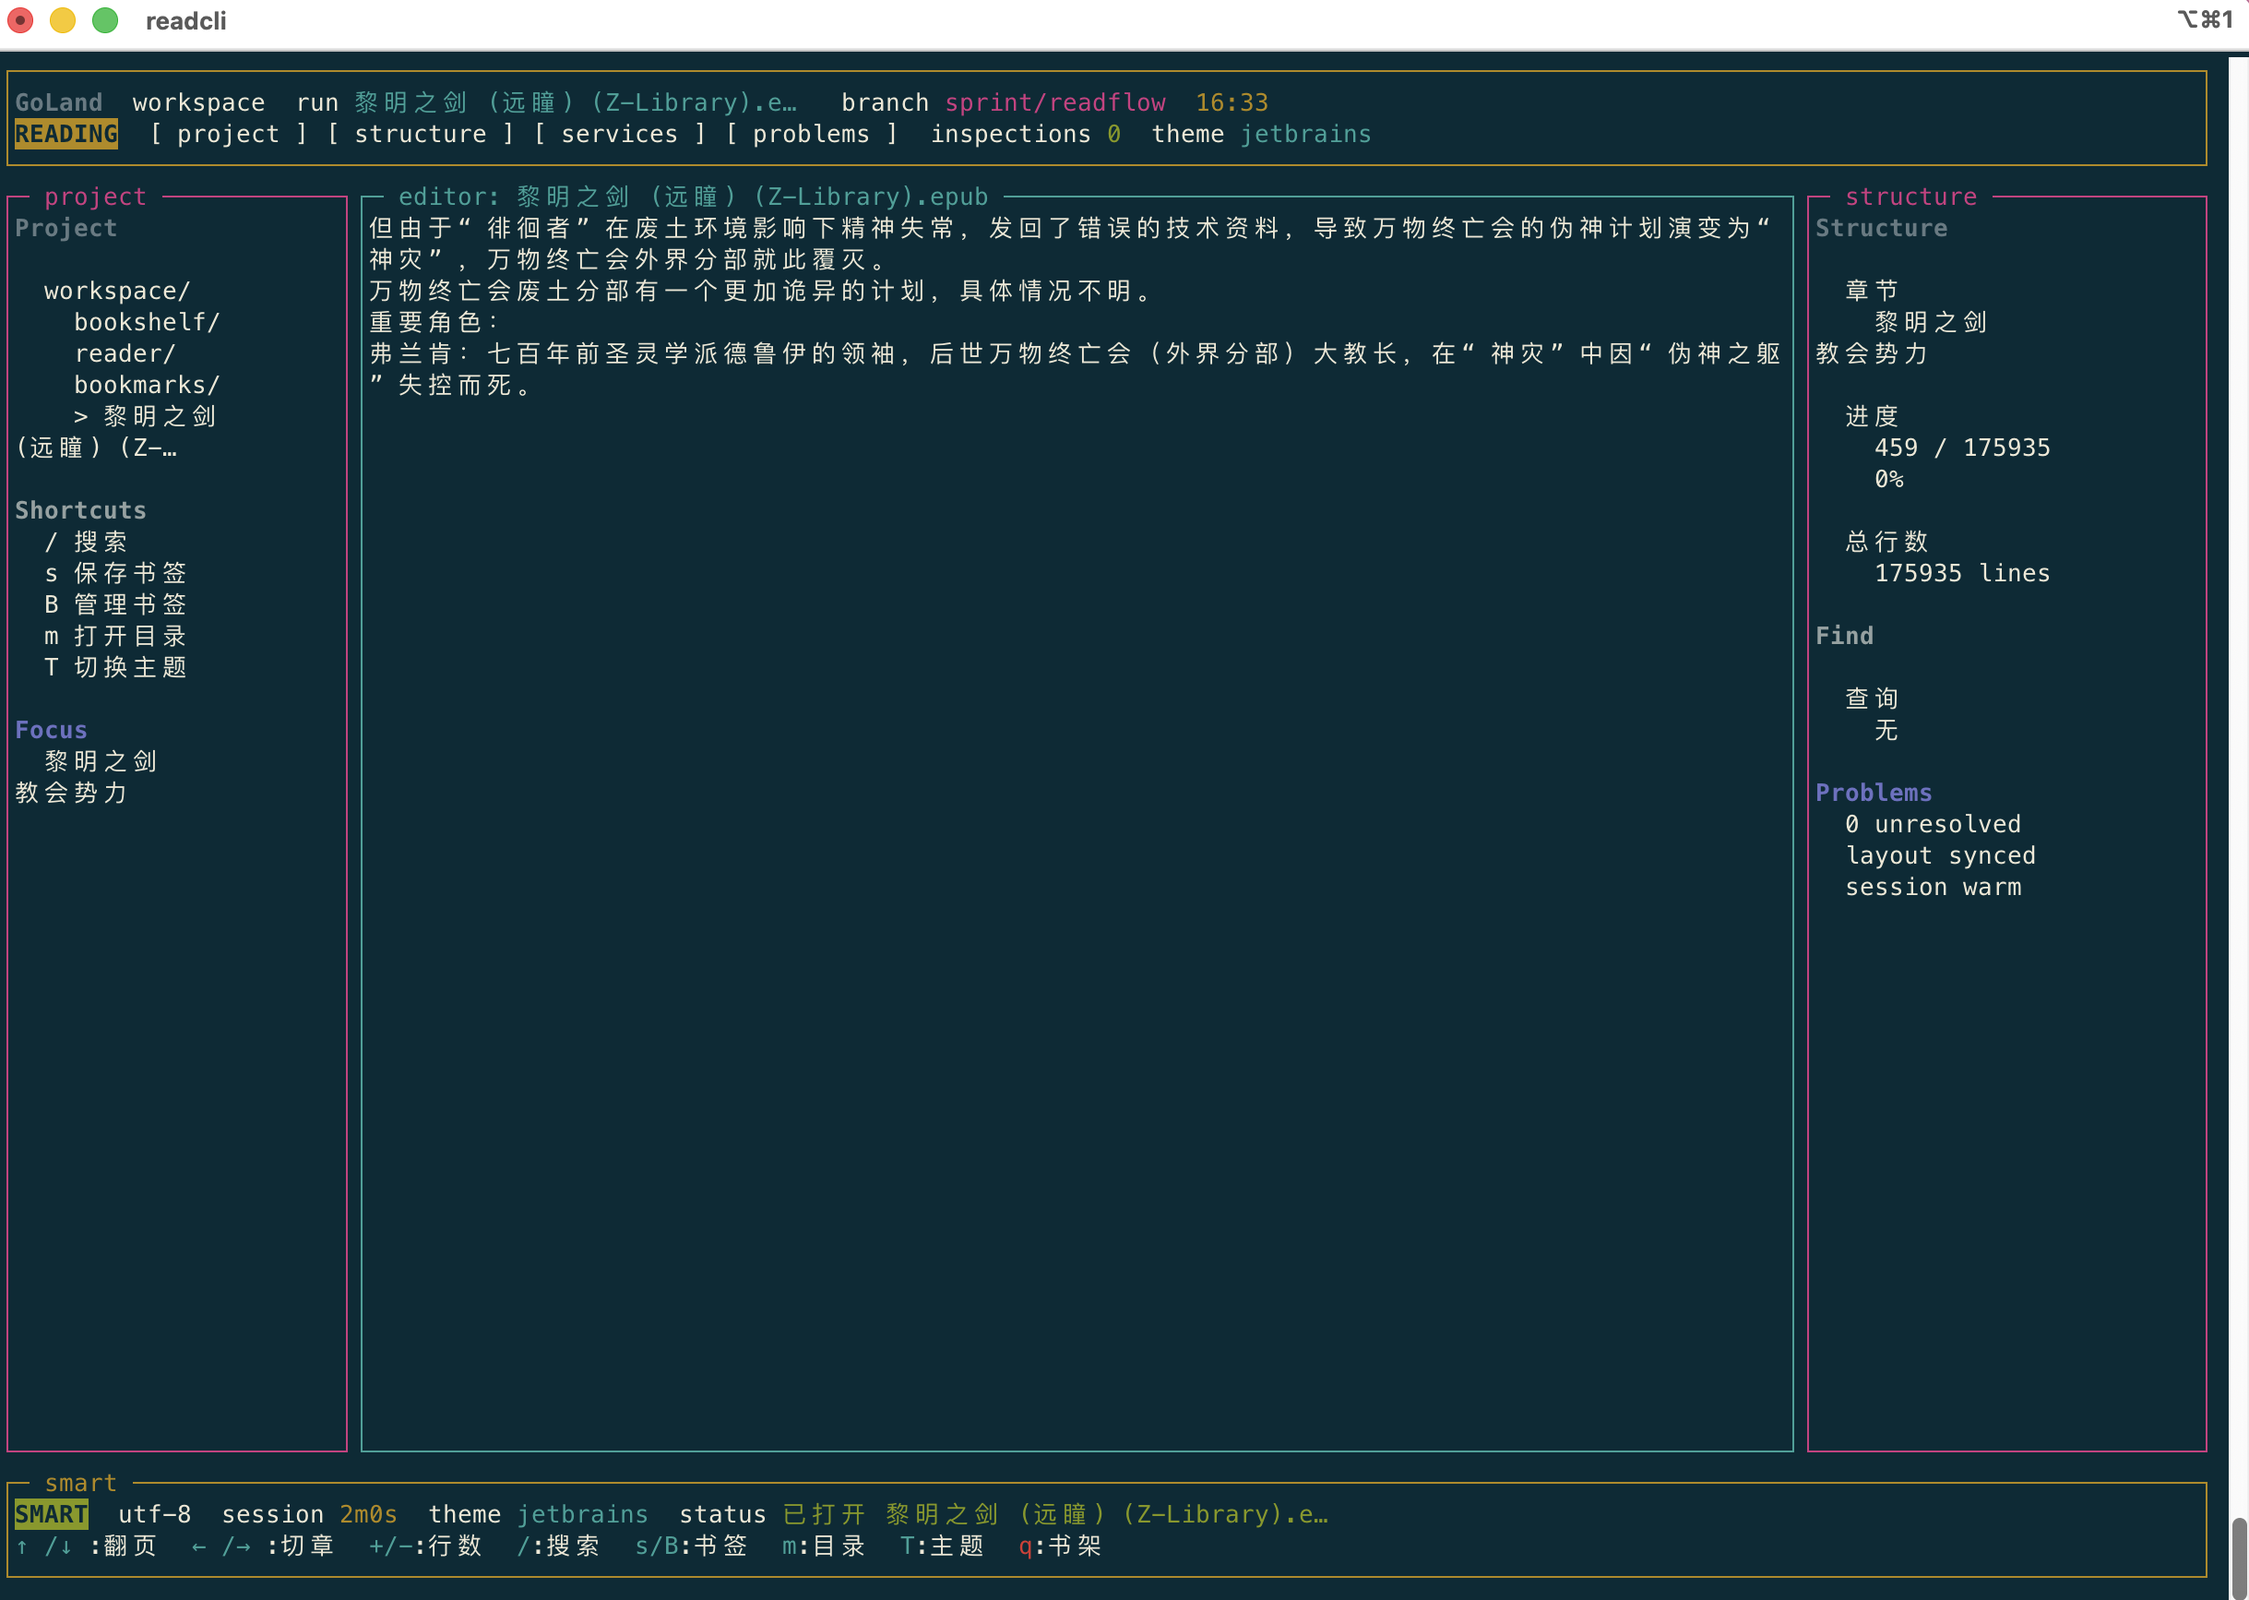
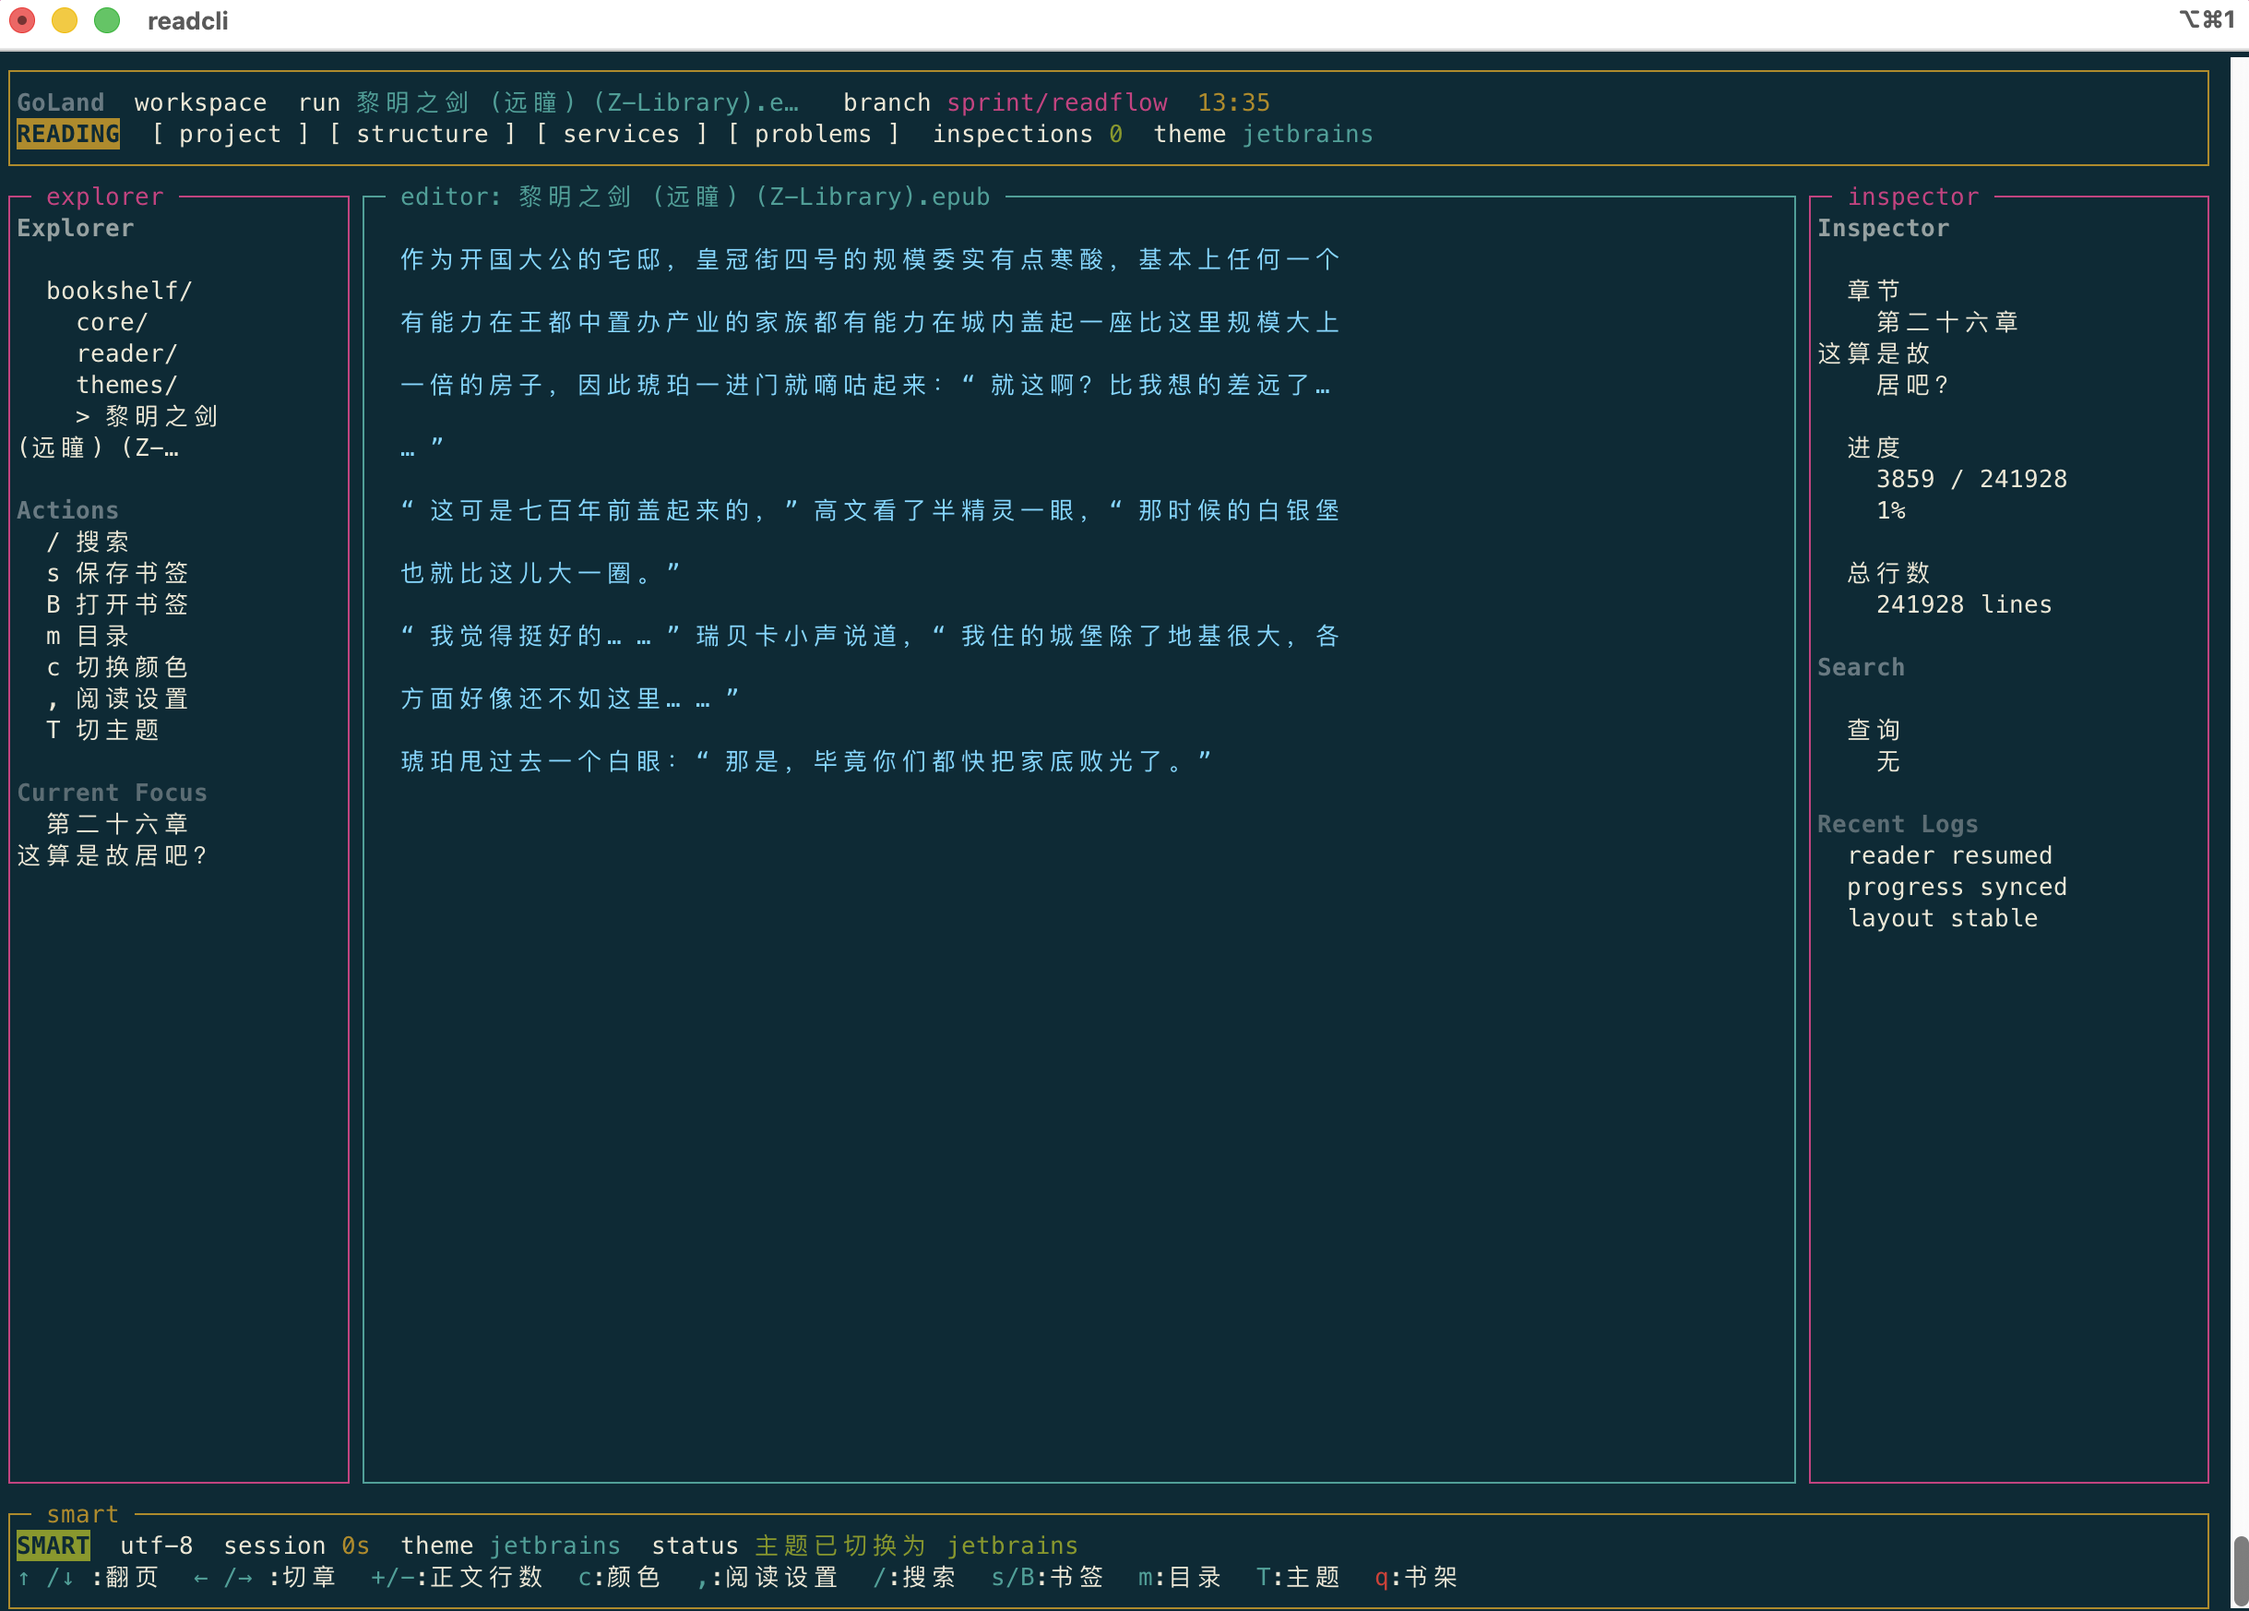
更新更新日志并替换阅读界面截图

diff --git a/CHANGELOG.md b/CHANGELOG.md
@@ -4,6 +4,19 @@
 
 格式参考 [Keep a Changelog](https://keepachangelog.com/zh-CN/1.0.0/)，版本号遵循语义化版本思路。
 
+## [v0.1.2] - 2026-04-01
+
+### 新增
+
+- 新增阅读样式设置面板，可直接调整正文宽度、上下左右边距、行间距、字体颜色和高对比模式
+- 支持自定义字体颜色，兼容 `#RRGGBB`、`#RGB` 和 `R,G,B`
+- 新增基础色模式，适配颜色支持较弱的 Linux 终端
+
+### 改进
+
+- 优化不同终端下的颜色兼容逻辑，支持扩展颜色自动降级
+- 修正显示行数逻辑，解决有行间距时 `+ / -` 调整不直观的问题
+
 ## [v0.1.1] - 2026-04-01
 
 ### 新增
@@ -15,7 +28,6 @@
 - 新增正文搜索、结果跳转与当前页高亮
 - 新增书签保存、书签列表、删除书签与状态反馈
 - 新增阅读内容跨进程缓存，重复打开同一本书更快
-- 新增新的 README 页面展示截图
 
 ### 改进
 
@@ -26,7 +38,6 @@
 - 优化书架分页与列表布局，避免底部内容被遮挡
 - 优化从书架打开图书时的加载反馈，避免看起来像卡住
 - 优化路径输入补全、候选选择和方向键兼容
-- README 文案整体收紧，减少过度包装式描述
 
 ### 修复
 
